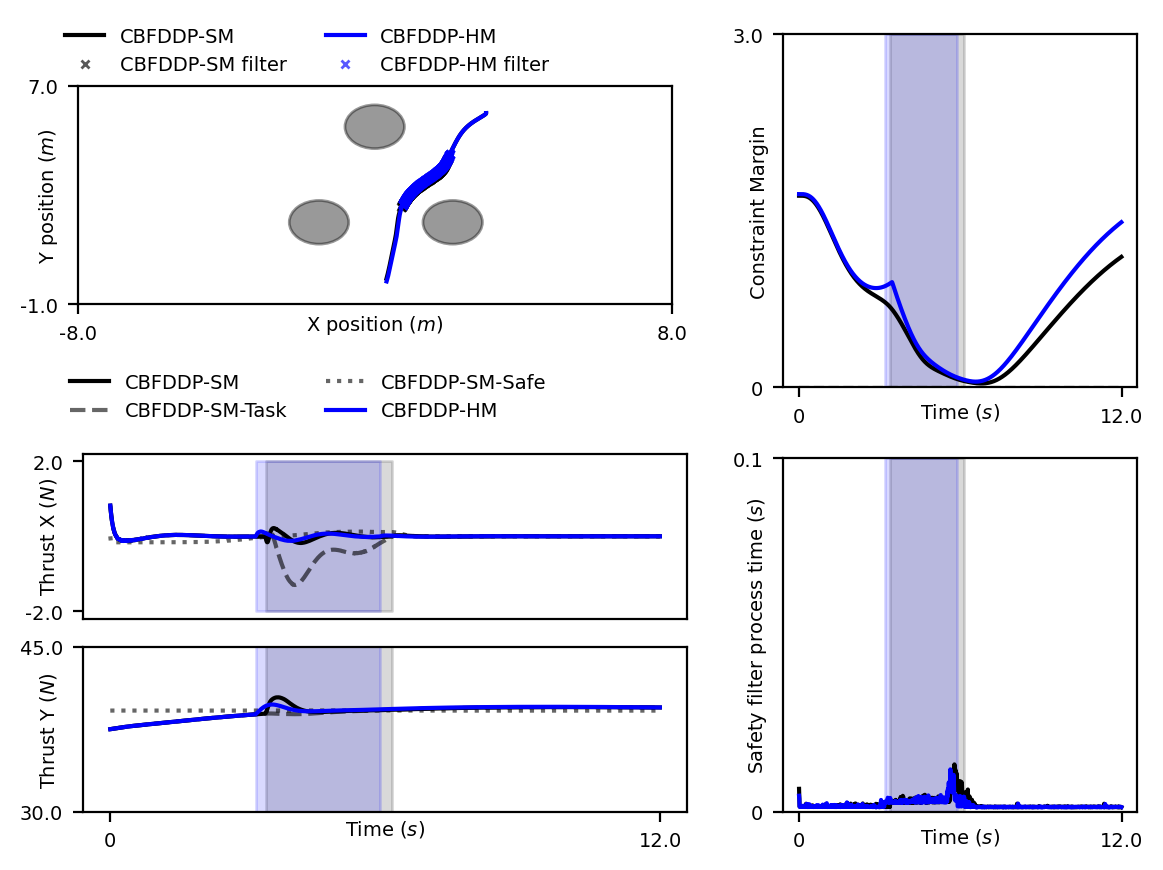
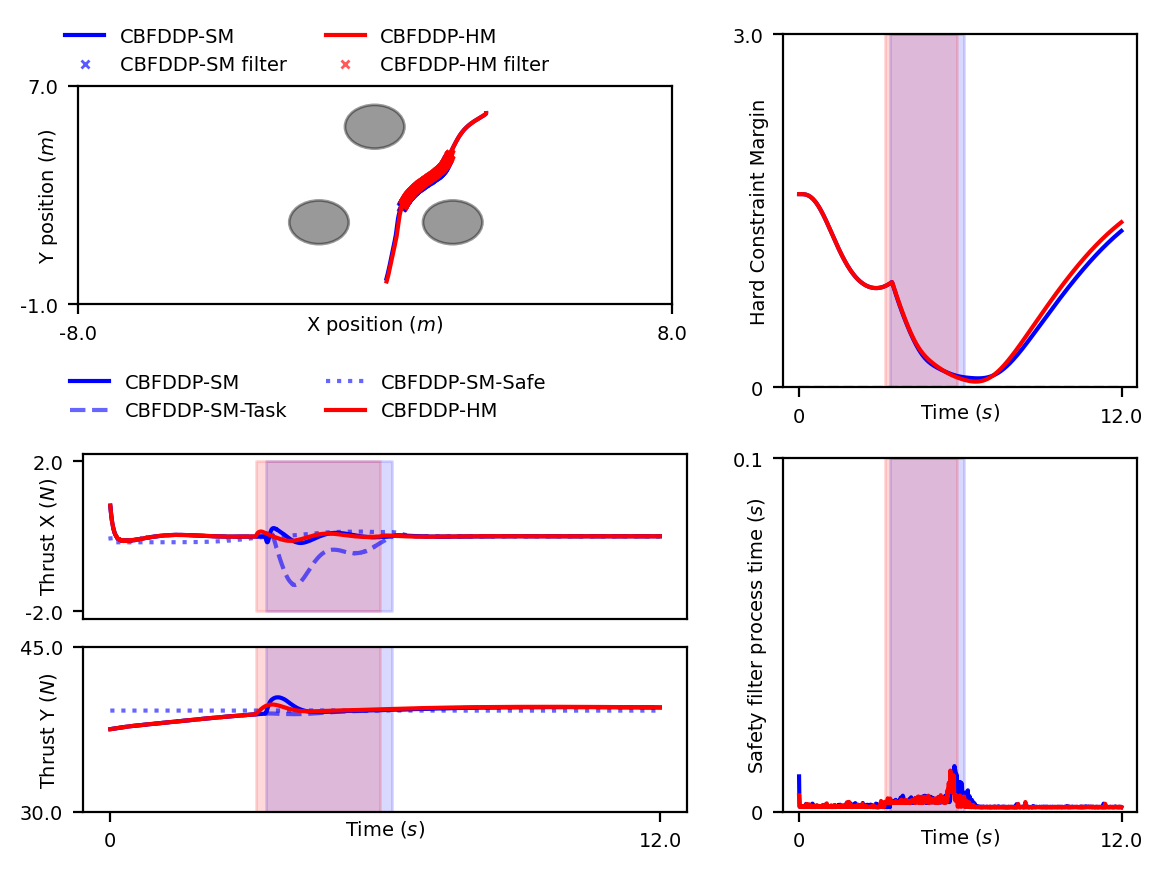
use only hard constraint

diff --git a/simulators/aerialV/pvtol_margins_and_costs.py b/simulators/aerialV/pvtol_margins_and_costs.py
@@ -107,6 +107,28 @@ class Pvtol6DConstraintMargin(BaseMargin):
         return cost
 
     @partial(jax.jit, static_argnames='self')
+    def get_constraint_margin(
+        self, state: DeviceArray, ctrl: DeviceArray
+    ) -> DeviceArray:
+        """
+        Args:
+            state (DeviceArray, vector shape)
+            ctrl (DeviceArray, vector shape)
+
+        Returns:
+            DeviceArray: scalar.
+        """
+        cost = jnp.inf
+
+        for _obs_constraint in self.obs_constraint:
+            _obs_constraint: BaseMargin
+            cost = jnp.minimum(
+                cost, _obs_constraint.get_stage_margin(
+                    state, ctrl))
+
+        return cost
+
+    @partial(jax.jit, static_argnames='self')
     def get_target_stage_margin(
         self, state: DeviceArray, ctrl: DeviceArray
     ) -> DeviceArray:
@@ -126,7 +148,7 @@ class Pvtol6DConstraintMargin(BaseMargin):
     def get_safety_metric(
         self, state: DeviceArray, ctrl: DeviceArray
     ) -> DeviceArray:
-        return self.get_stage_margin(
+        return self.get_constraint_margin(
             state, ctrl
         )
 
@@ -153,33 +175,7 @@ class Pvtol6DConstraintMargin(BaseMargin):
             obs_cons=obs_cons
         )
 
-class Pvtol6DSoftConstraintMargin(BaseMargin):
-    def __init__(self, config, plan_dyn):
-        super().__init__()
-        # System parameters.
-        self.ego_radius = config.EGO_RADIUS
-
-        # Safety cost function parameters.
-        self.width_right = config.WIDTH_RIGHT
-        self.width_left = config.WIDTH_LEFT
-        self.kappa = config.SMOOTHING_TEMP
-
-        self.obs_spec = config.OBS_SPEC
-        self.obsc_type = config.OBSC_TYPE
-        self.plan_dyn = plan_dyn
-
-        self.dim_x = plan_dyn.dim_x
-        self.dim_u = plan_dyn.dim_u
-
-        self.obs_constraint = []
-        if self.obsc_type == 'circle':
-            for circle_spec in self.obs_spec:
-                self.obs_constraint.append(
-                    CircleObsMargin(
-                        circle_spec=circle_spec, buffer=config.EGO_RADIUS
-                    )
-                )
-
+class Pvtol6DSoftConstraintMargin(Pvtol6DConstraintMargin):
     @partial(jax.jit, static_argnames='self')
     def get_stage_margin(
         self, state: DeviceArray, ctrl: DeviceArray
@@ -214,14 +210,6 @@ class Pvtol6DSoftConstraintMargin(BaseMargin):
         Returns:
             DeviceArray: scalar.
         """
-        return self.get_stage_margin(
-            state, ctrl
-        )
-
-    @partial(jax.jit, static_argnames='self')
-    def get_safety_metric(
-        self, state: DeviceArray, ctrl: DeviceArray
-    ) -> DeviceArray:
         return self.get_stage_margin(
             state, ctrl
         )

diff --git a/simulators/car/bicycle5d_margin.py b/simulators/car/bicycle5d_margin.py
@@ -228,6 +228,78 @@ class Bicycle5DConstraintMargin(BaseMargin):
             self.track_exit_cost = LowerHalfMargin(value=0.0, buffer=0, dim=0)
 
     @partial(jax.jit, static_argnames='self')
+    def get_constraint_margin(
+        self, state: DeviceArray, ctrl: DeviceArray
+    ) -> DeviceArray:
+        """
+        Args:
+            state (DeviceArray, vector shape)
+            ctrl (DeviceArray, vector shape)
+
+        Returns:
+            DeviceArray: scalar.
+        """
+        cost = jnp.inf
+
+        state_offset = self.plan_dyn.apply_rear_offset_correction(state)
+
+        if self.use_road:
+            cost = jnp.minimum(
+                cost,
+                self.road_position_min_cost.get_stage_margin(
+                    state_offset, ctrl
+                )
+            )
+
+            cost = jnp.minimum(
+                cost,
+                self.road_position_max_cost.get_stage_margin(
+                    state_offset, ctrl
+                )
+            )
+
+        for _obs_constraint in self.obs_constraint:
+            _obs_constraint: BaseMargin
+            cost = jnp.minimum(
+                cost, _obs_constraint.get_stage_margin(
+                    state_offset, ctrl))
+
+        if self.use_yaw:
+            cost = jnp.minimum(cost, self.yaw_min_cost.get_stage_margin(
+                state_offset, ctrl
+            )
+            )
+
+            cost = jnp.minimum(cost, self.yaw_max_cost.get_stage_margin(
+                state_offset, ctrl
+            )
+            )
+
+        if self.use_delta:
+            cost = jnp.minimum(cost, self.delta_min_cost.get_stage_margin(
+                state_offset, ctrl
+            )
+            )
+
+            cost = jnp.minimum(cost, self.delta_max_cost.get_stage_margin(
+                state_offset, ctrl
+            )
+            )
+
+        if self.use_vel:
+            cost = jnp.minimum(cost, self.vel_min_cost.get_stage_margin(
+                state_offset, ctrl)
+            )
+
+        if self.use_track_exit:
+            cost = jnp.minimum(cost, self.track_exit_cost.get_stage_margin(
+                state_offset, ctrl)
+            )
+
+        return cost
+
+
+    @partial(jax.jit, static_argnames='self')
     def get_stage_margin(
         self, state: DeviceArray, ctrl: DeviceArray
     ) -> DeviceArray:
@@ -505,7 +577,7 @@ class Bicycle5DConstraintMargin(BaseMargin):
     def get_safety_metric(
         self, state: DeviceArray, ctrl: DeviceArray
     ) -> DeviceArray:
-        return self.get_stage_margin(state, ctrl)
+        return self.get_constraint_margin(state, ctrl)
 
     @partial(jax.jit, static_argnames='self')
     def get_cost_dict(

diff --git a/summary/utils.py b/summary/utils.py
@@ -419,9 +419,9 @@ def make_bicycle_comparison_report(prefix="./exps_may/ilqr/bic5D/yaw_testing/", 
     showcontrollist = []
     colors = {}
     colors['SoftLR'] = 'g'
-    colors['LR'] = 'r'
-    colors['CBF'] = 'b'
-    colors['SoftCBF'] = 'k'
+    colors['LR'] = 'k'
+    colors['CBF'] = 'r'
+    colors['SoftCBF'] = 'b'
     styles = ['solid', 'solid', 'solid', 'solid']
 
     for sh in filters:
@@ -697,7 +697,7 @@ def make_bicycle_comparison_report(prefix="./exps_may/ilqr/bic5D/yaw_testing/", 
     ax_v.xaxis.set_label_coords(0.5, -0.04)
     ax_v.set_xlabel('Time $(s)$', 
                         fontsize=legend_fontsize)
-    ax_v.set_ylabel('Constraint Margin', 
+    ax_v.set_ylabel('Hard Constraint Margin', 
                         fontsize=legend_fontsize)
     # ax_v.legend(framealpha=0, fontsize=legend_fontsize, loc='upper left', 
     #                        ncol=3, bbox_to_anchor=(0.05, 1.1), fancybox=False, shadow=False)
@@ -820,9 +820,9 @@ def make_pvtol_comparison_report(prefix="./exps_may/ilqr/bic5D/yaw_testing/", pl
     showcontrollist = []
     colors = {}
     colors['SoftLR'] = 'g'
-    colors['LR'] = 'r'
-    colors['CBF'] = 'b'
-    colors['SoftCBF'] = 'k'
+    colors['LR'] = 'k'
+    colors['CBF'] = 'r'
+    colors['SoftCBF'] = 'b'
     styles = ['solid', 'solid', 'solid', 'solid']
 
     for sh in filters:
@@ -1077,7 +1077,7 @@ def make_pvtol_comparison_report(prefix="./exps_may/ilqr/bic5D/yaw_testing/", pl
     ax_v.xaxis.set_label_coords(0.5, -0.04)
     ax_v.set_xlabel('Time $(s)$', 
                         fontsize=legend_fontsize)
-    ax_v.set_ylabel('Constraint Margin', 
+    ax_v.set_ylabel('Hard Constraint Margin', 
                         fontsize=legend_fontsize)
     # ax_v.legend(framealpha=0, fontsize=legend_fontsize, loc='upper left', 
     #                        ncol=3, bbox_to_anchor=(0.05, 1.1), fancybox=False, shadow=False)
